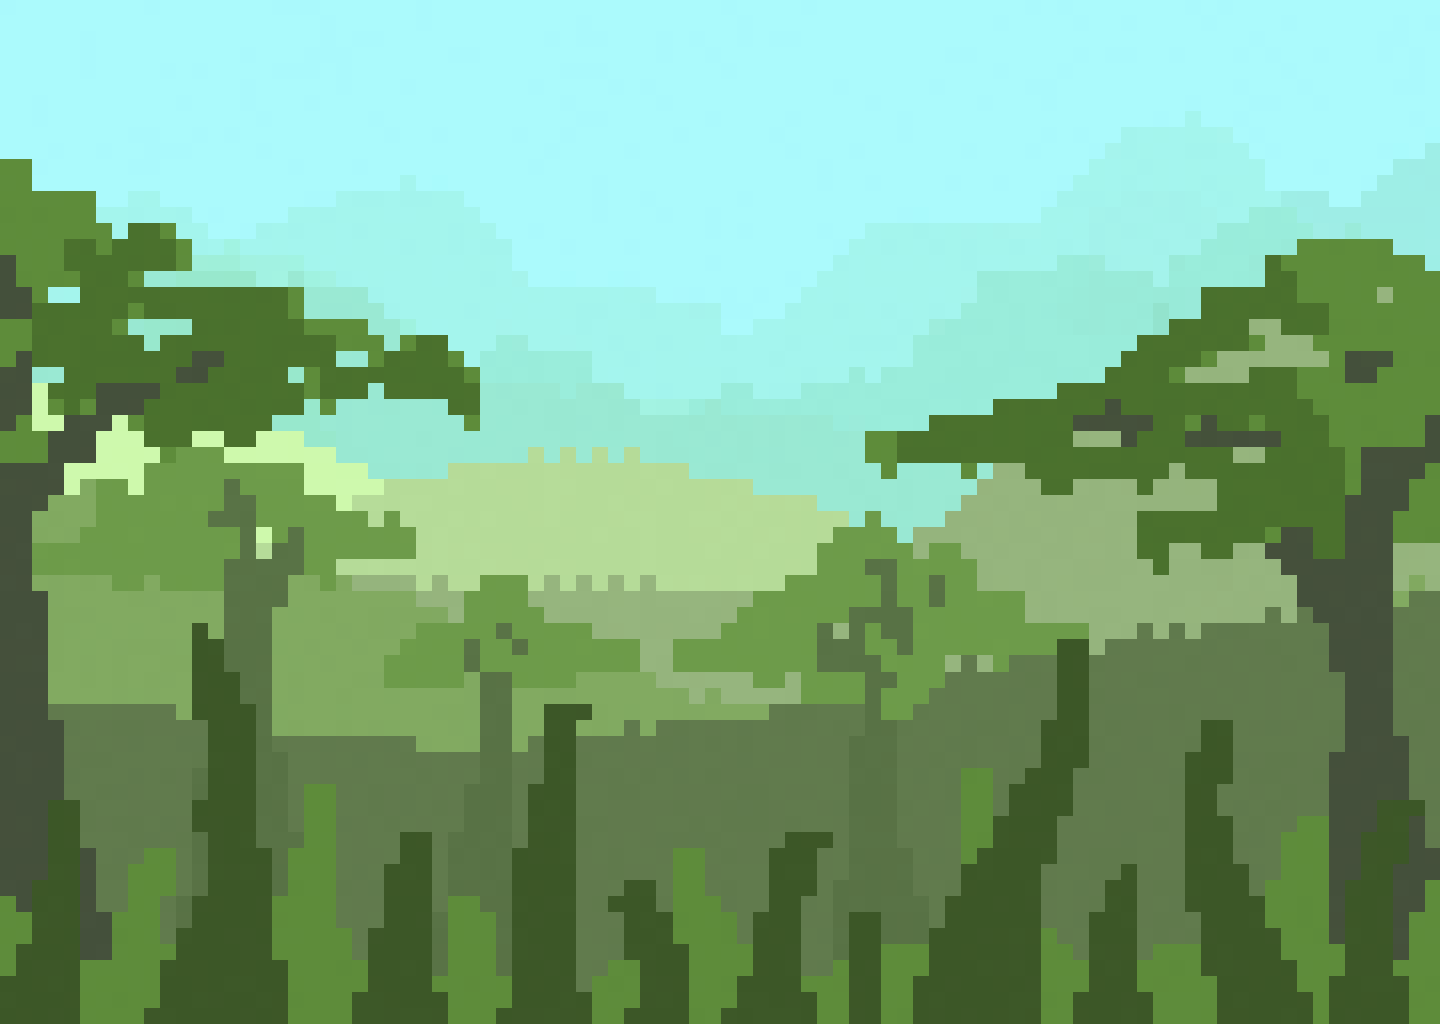
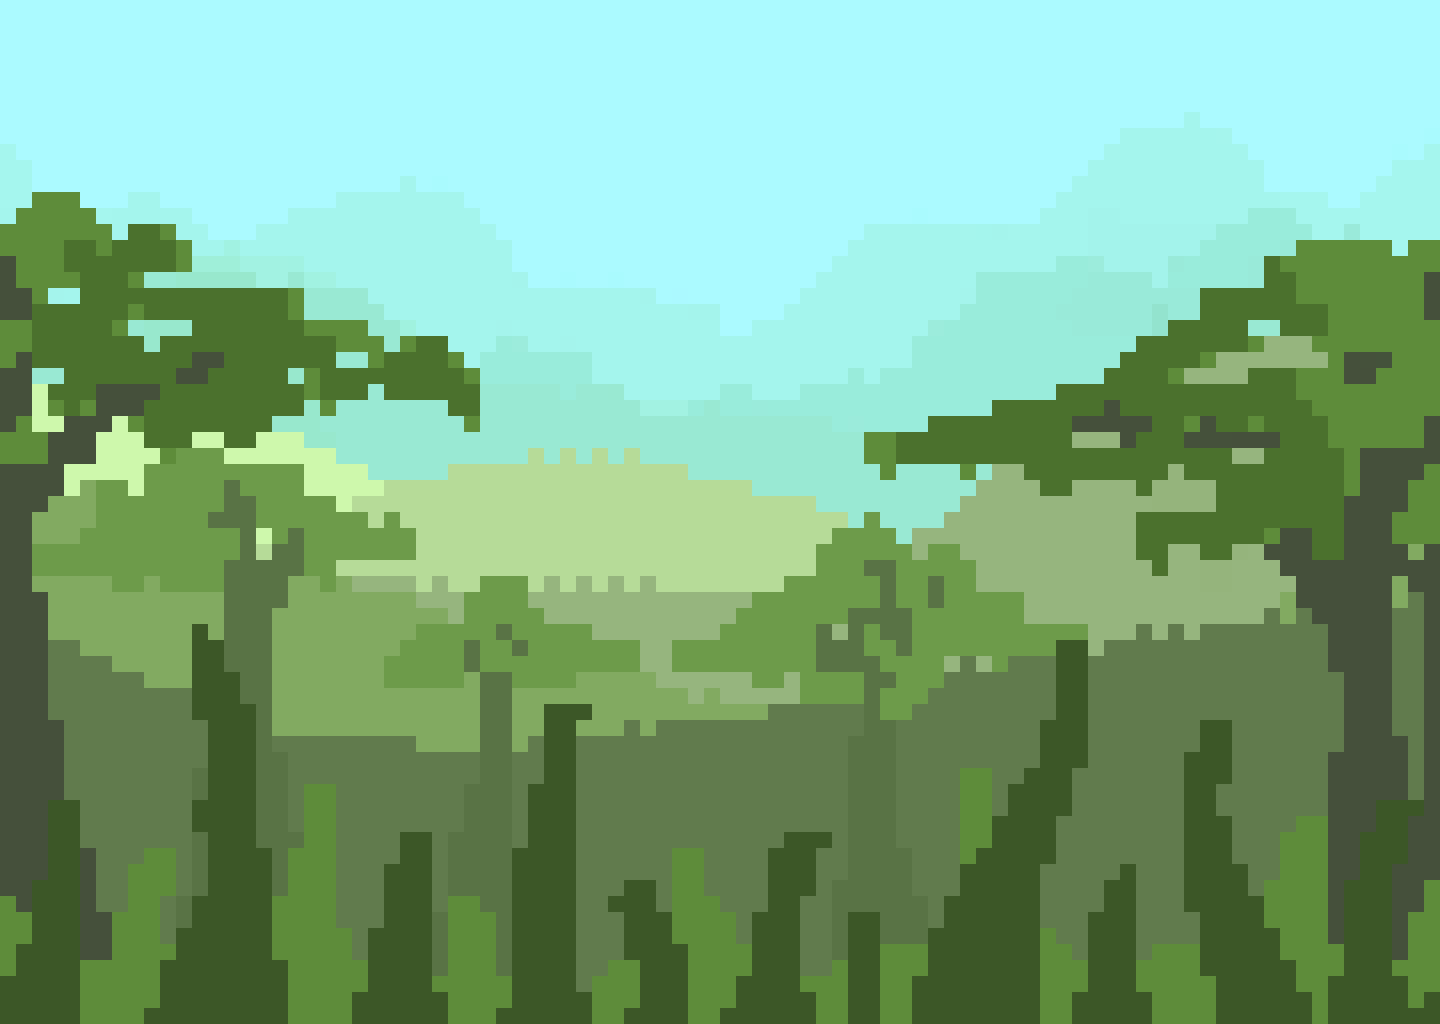
Use wrapping bg image.

diff --git a/src/index.css b/src/index.css
@@ -53,7 +53,7 @@ code {
   bottom: 0;
   display: flex;
   justify-content: center;
-  background-image: url("img/background.svg");
+  background-image: url("img/background.png");
   background-position: center bottom;
   background-repeat: repeat-x;
   background-color: #abfafc;
